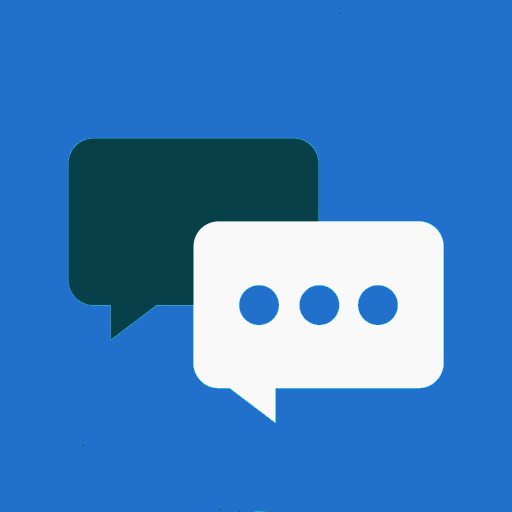
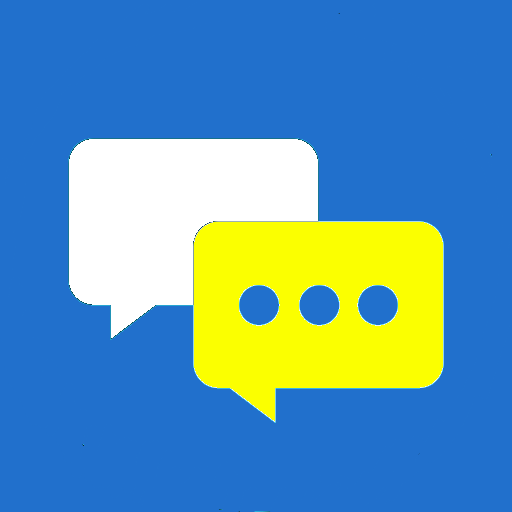
Se actualizo el diseño

Changed region(s): [[0.125, 0.25, 0.875, 0.8125]]

diff --git a/html/Bienvenida.html b/html/Bienvenida.html
@@ -11,7 +11,7 @@
             <img src="/imagenes/LOGO.jpg" alt="logo empresa" class="logo">
             <h2>¡Bienvenido!</h2>
             <h2>Usuario_Generico 249</h2>
-            <h3>¡Checa tu Ruta!</h3>
+            <h3>Checa tu Ruta</h3>
             <a href="mapa.html" class="imgenlace"><img src="/imagenes/mapa.png" alt="mapa" class="map"></a>
             <h3>¡Entra a nuestro chat!</h3>
             <img src="/imagenes/Chat.png" alt="mapa" class="marco">

diff --git a/css/estilo.css b/css/estilo.css
@@ -14,6 +14,12 @@ body{
     color: white;
 }
 
+h2, h3, label{
+    text-align: center;
+    margin-bottom: 5px;
+    margin-top: 20px;
+}
+
 .accesos
 {
     width: 80%;
@@ -47,7 +53,8 @@ body{
 
 .marco
 {
-    width: 65%;
-    height: 30%;
-    border: 10px solid white;
+    width: 80%;
+    height: 180px;
+    border: 10px solid rgb(251, 255, 0);
+    margin-bottom: 10px;
 }

diff --git a/html/Registrate.html b/html/Registrate.html
@@ -8,7 +8,7 @@
     <body>
         <div class="seccion">
             <img src="/imagenes/LOGO.jpg" alt="logo empresa" class="logo">
-            <h2>¡Registra tu cuenta!</h2>
+            <h2>¡Únete a nosotros!</h2>
             <label >Usuario</label>
             <input type="text" class="dat"> 
             <label>Contraseña</label>

diff --git a/css/estilob.css b/css/estilob.css
@@ -1,9 +1,9 @@
 .map{
-    width: 100%;
-    border: 10px solid white;
+    width: 90%;
+    border: 10px solid rgb(251, 255, 0);
+    height: 90%;
 }
 
 .imgenlace{
-    
-    align-items: center;
+    width: 90%;
 }
